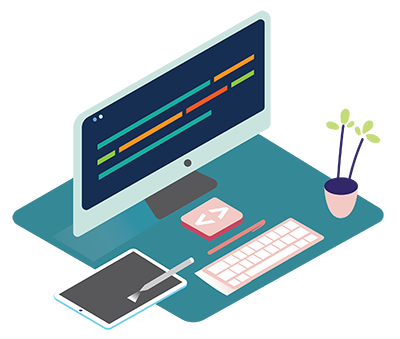
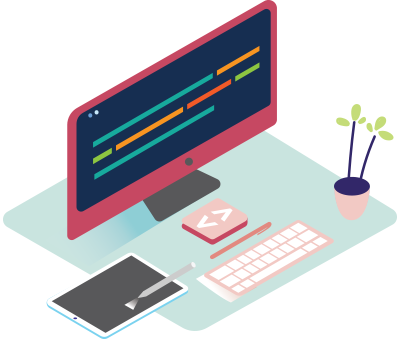
Background change - pic change - responsive change

diff --git a/index.html b/index.html
@@ -31,49 +31,55 @@
     <title>Sarah Abousenna</title>
   </head>
   <body>
-    <img
+    <div class="head-background">
+      <!-- <img
       class="img-fluid background-header"
       src="/images/background-header.png"
       alt="header-img"
-    />
+    /> -->
 
-    <nav class="navbar navbar-expand-lg bg-light fixed-top">
-      <div class="container mt-1">
-        <a class="navbar-brand" href="/index.html">Sarah Abousenna</a>
-        <button
-          class="navbar-toggler"
-          type="button"
-          data-bs-toggle="collapse"
-          data-bs-target="#navbarNav"
-          aria-controls="navbarNav"
-          aria-expanded="false"
-          aria-label="Toggle navigation"
-        >
-          <span class="navbar-toggler-icon"></span>
-        </button>
-        <div class="collapse navbar-collapse" id="navbarNav">
-          <ul class="navbar-nav">
-            <li class="nav-item">
-              <a class="nav-link active" aria-current="page" href="/index.html"
-                >Home</a
-              >
-            </li>
-            <li class="nav-item">
-              <a class="nav-link" href="/about.html" class="secondary-link"
-                >Portofolio</a
-              >
-            </li>
-            <li class="nav-item">
-              <a class="nav-link" href="/about.html#contact">Contact me</a>
-            </li>
-          </ul>
+      <nav class="navbar navbar-expand-lg bg-light fixed-top">
+        <div class="container mt-1">
+          <a class="navbar-brand" href="/index.html">Sarah Abousenna</a>
+          <button
+            class="navbar-toggler"
+            type="button"
+            data-bs-toggle="collapse"
+            data-bs-target="#navbarNav"
+            aria-controls="navbarNav"
+            aria-expanded="false"
+            aria-label="Toggle navigation"
+          >
+            <span class="navbar-toggler-icon"></span>
+          </button>
+          <div class="collapse navbar-collapse" id="navbarNav">
+            <ul class="navbar-nav">
+              <li class="nav-item">
+                <a
+                  class="nav-link active"
+                  aria-current="page"
+                  href="/index.html"
+                  >Home</a
+                >
+              </li>
+              <li class="nav-item">
+                <a class="nav-link" href="/about.html" class="secondary-link"
+                  >Portofolio</a
+                >
+              </li>
+              <li class="nav-item">
+                <a class="nav-link" href="/about.html#contact">Contact me</a>
+              </li>
+            </ul>
+          </div>
         </div>
-      </div>
-    </nav>
+      </nav>
 
-    <div class="typewriter">
-      <h1>HELLO!</h1>
+      <div class="typewriter">
+        <h1>HELLO!</h1>
+      </div>
     </div>
+
     <h2 class="mb-3 i-am">My name is</h2>
     <div class="my-photo">
       <img

diff --git a/styles.css b/styles.css
@@ -14,6 +14,24 @@
   box-sizing: border-box;
 }
 
+.head-background {
+  background: linear-gradient(-45deg, #c5d8d3, #f1c8c3, #c44761, #c44761);
+  background-size: 400% 400%;
+  animation: gradient 15s ease infinite;
+}
+
+@keyframes gradient {
+  0% {
+    background-position: 0% 50%;
+  }
+  50% {
+    background-position: 100% 50%;
+  }
+  100% {
+    background-position: 0% 50%;
+  }
+}
+
 body {
   background-color: var(--primary-color);
 }
@@ -35,10 +53,16 @@ body {
 .navbar {
   opacity: 0.8;
 }
+
+/* nav a:hover,
+nav li.active a {
+  color: white;
+} */
+
 h1 {
   text-align: center;
-  margin-top: 20px;
-  font-size: 200px;
+  /* margin-top: 20px; */
+  font-size: 320px;
   color: white;
   font-weight: bold;
   font-family: var(--heading-font);
@@ -46,8 +70,9 @@ h1 {
 
 .typewriter {
   padding-top: 40px;
-  font-size: 200px;
-  margin: 50px 100px;
+  font-size: 320px;
+
+  padding: 100px 100px;
   text-shadow: 7px 7px #6d6e71;
 }
 
@@ -88,11 +113,15 @@ h2 {
   color: #6d6e71;
 }
 
+.i-am {
+  padding-top: 50px;
+}
+
 .my-name {
   font-size: 80px;
   color: white;
-  position: relative;
-  top: 10px;
+  /* position: relative;
+  top: 10px; */
 }
 .owner-img {
   box-shadow: #6d6e71 10px 10px;
@@ -113,7 +142,6 @@ h2 {
 .primary-link {
   display: block;
   margin: 0 auto;
-
   width: 350px;
   border-radius: 4px;
   padding: 20px 15px;
@@ -134,12 +162,12 @@ h2 {
 }
 
 .responsive {
-  background-color: rgba(255, 255, 255, 0.2);
   width: 100%;
   display: flex;
   padding: 20px 50px;
   font-family: HolidayFree;
   justify-content: center;
+  background-color: rgba(255, 255, 255, 0.1);
 }
 .resp {
   color: white;
@@ -151,15 +179,15 @@ h2 {
 
 @media (max-width: 991px) {
   .typewriter {
-    padding-top: 40px;
+    padding-top: 120px;
   }
   h1,
   .typewriter {
-    font-size: 120px;
+    font-size: 150px;
   }
   .i-am {
     font-size: 45px;
-    padding-top: 10px;
+    padding-top: 50px;
   }
   .my-name {
     font-size: 60px;
@@ -178,25 +206,23 @@ h2 {
 }
 
 @media (max-width: 631px) {
-  .typewriter {
-    padding-top: 40px;
-  }
   .typewriter,
   h1 {
-    font-size: 48px;
+    font-size: 70px;
   }
 
   .i-am {
     font-size: 25px;
-    padding-top: 20px;
+    padding-top: 30px;
   }
   .owner-img {
     width: 250px;
   }
   .typewriter {
-    height: 40px;
+    /* height: 40px; */
     text-shadow: 4px 4px #6d6e71;
-    margin-top: 30px;
+    padding: 100px 50px 50px 50px;
+    /* margin-top: 30px; */
   }
   .my-name {
     font-size: 35px;
